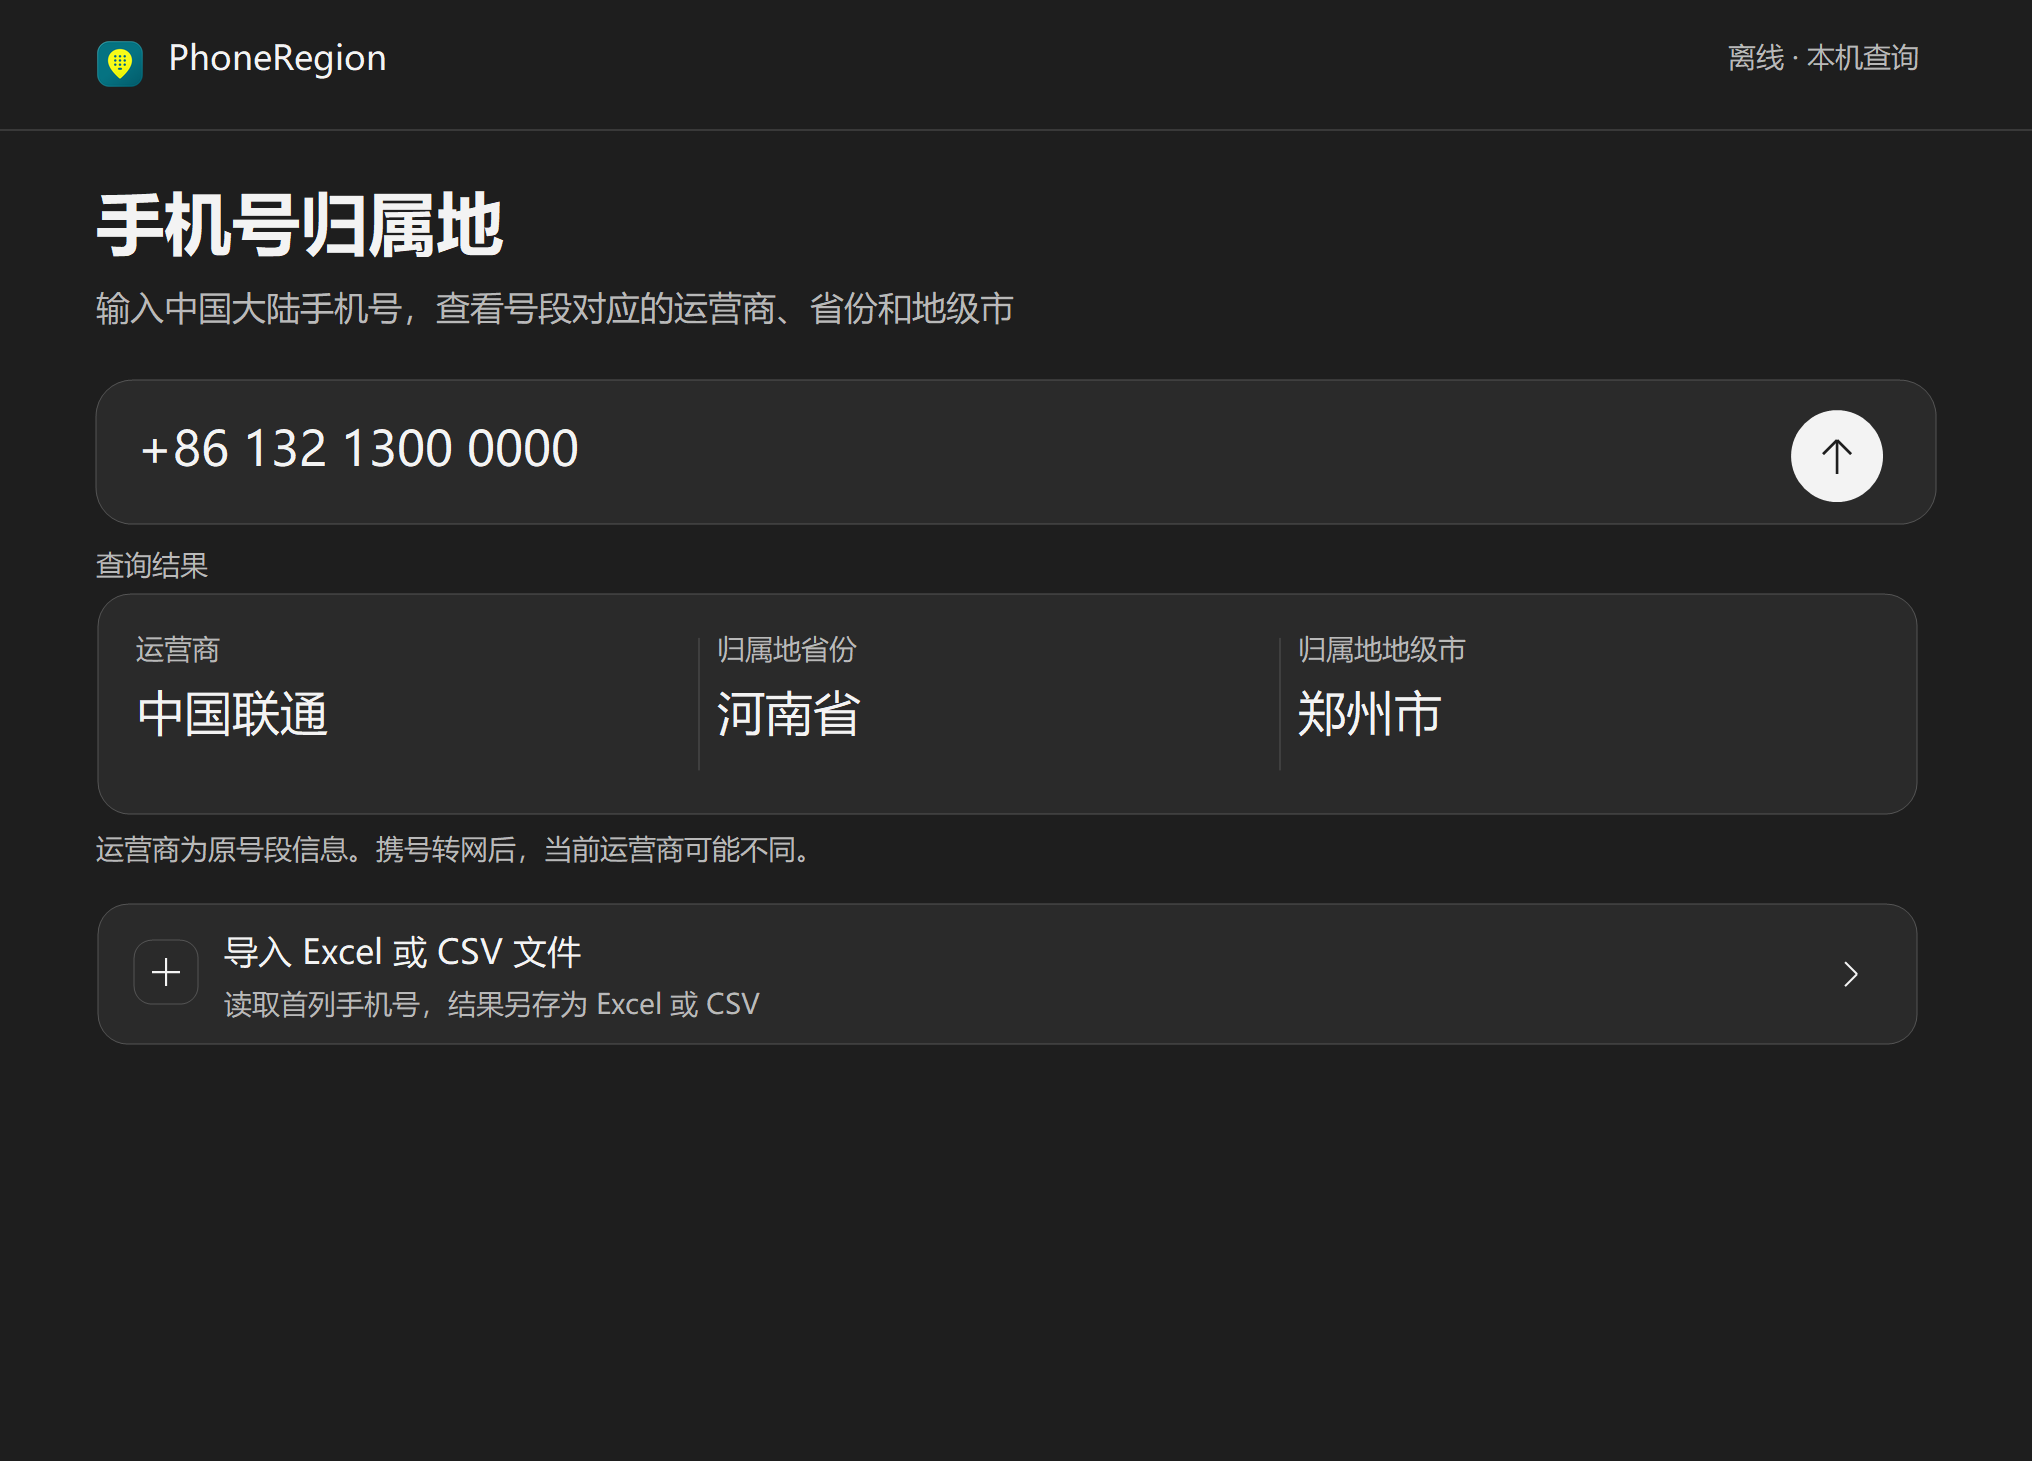
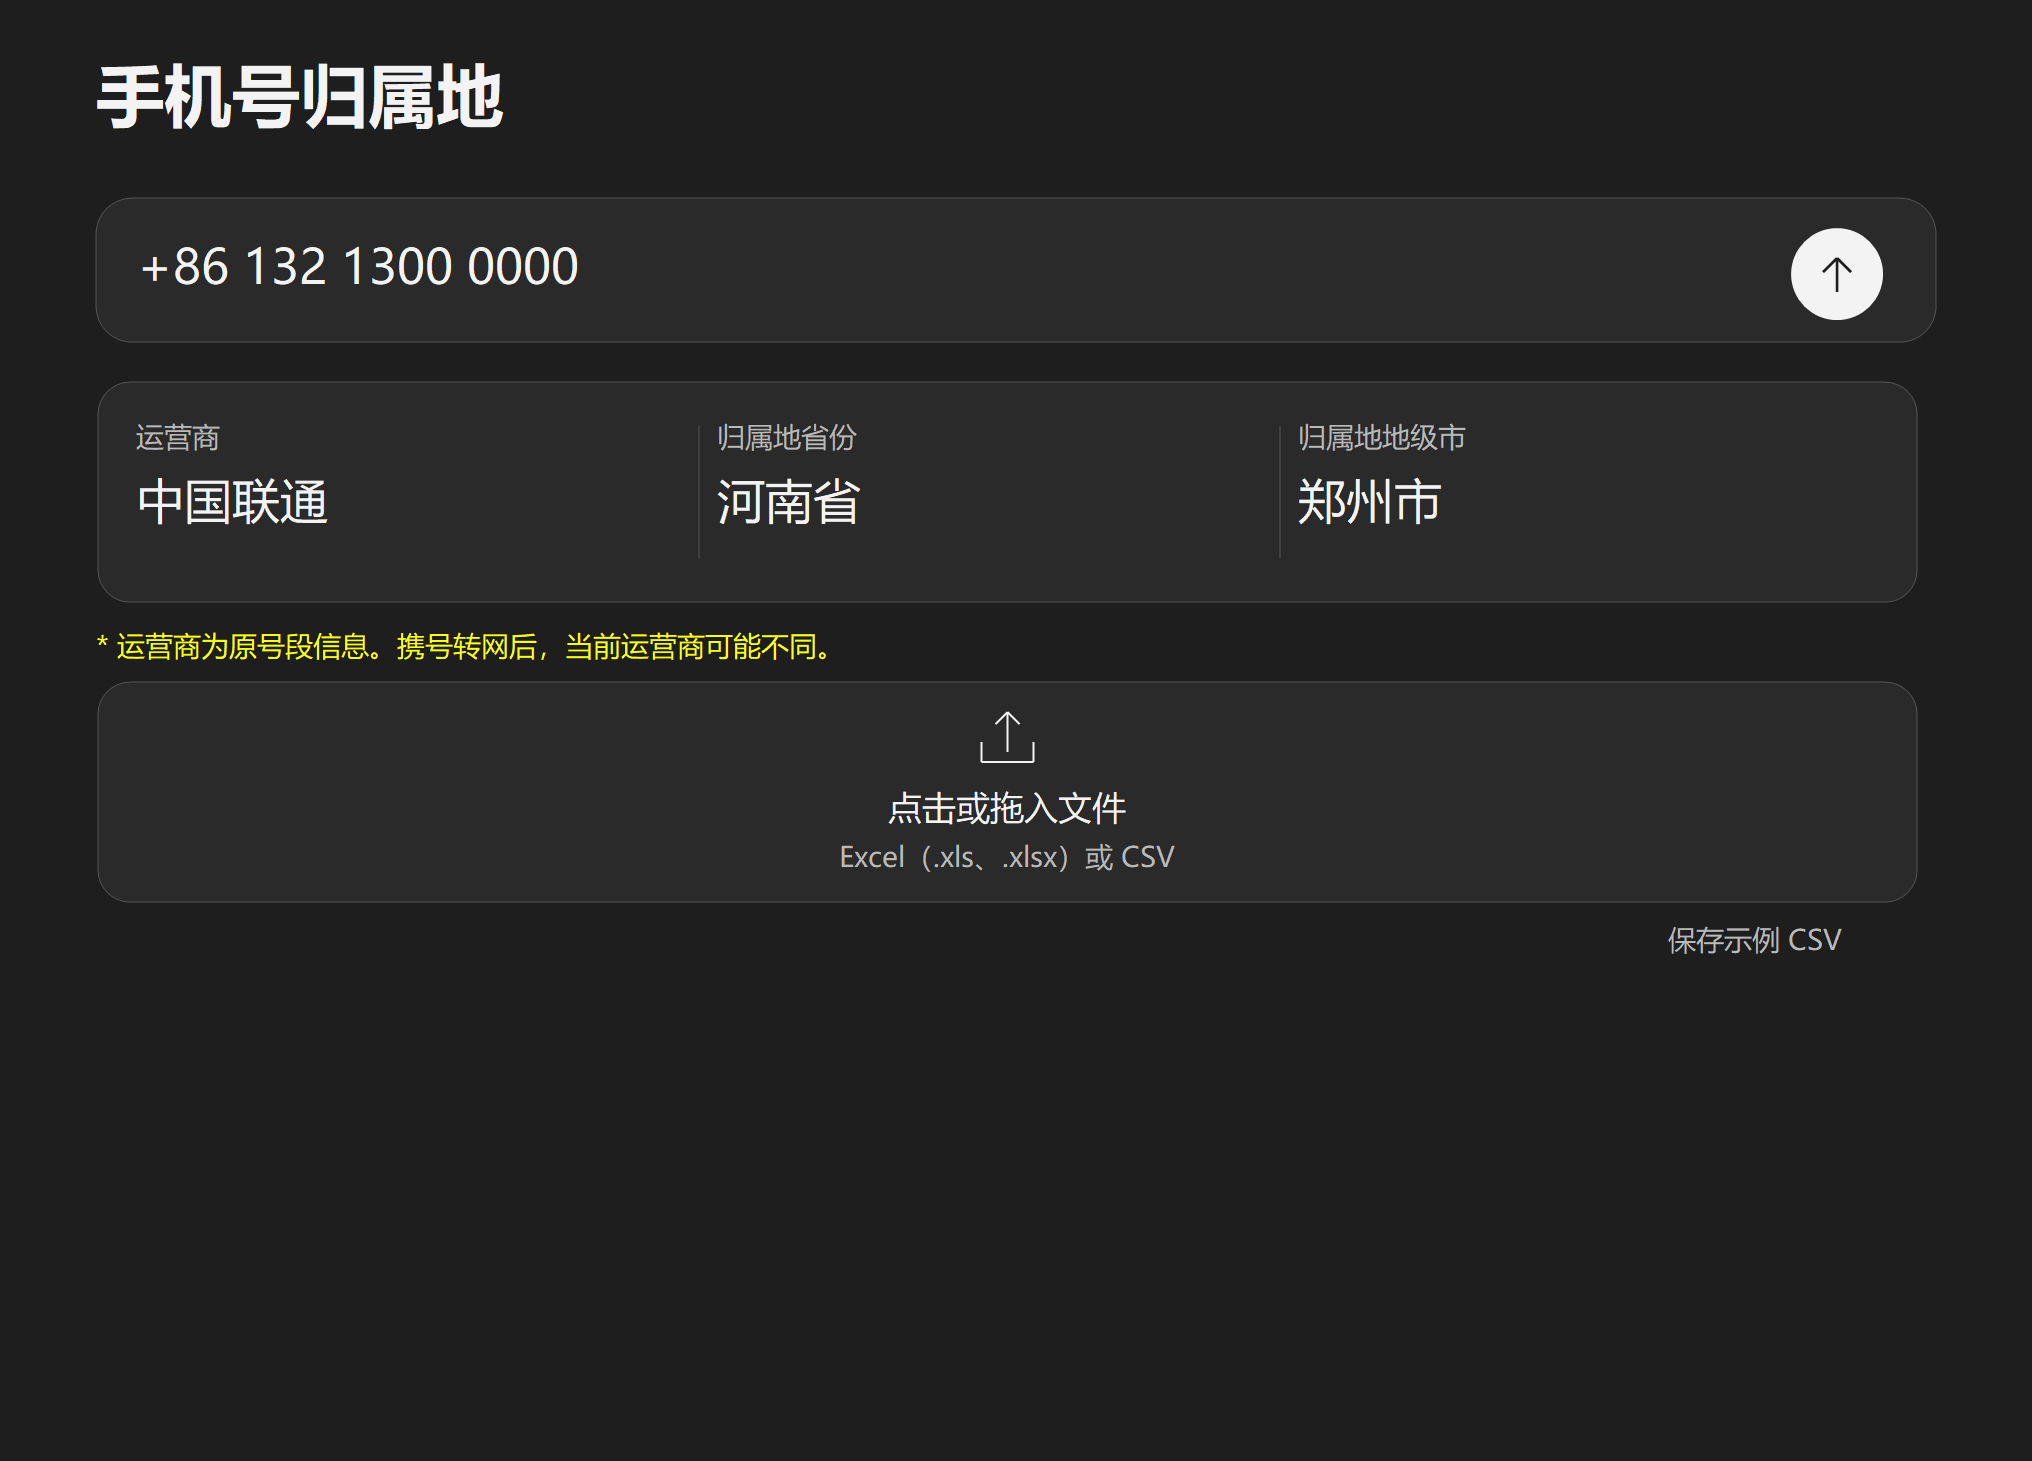
Show the released Windows lookup and export flow in both guides

diff --git a/README.en.md b/README.en.md
@@ -13,7 +13,7 @@
   <img alt="Excel and CSV batch lookup" src="https://img.shields.io/badge/Batch-Excel%20%2F%20CSV-67539b">
 </p>
 
-<p align="center">Enter a mainland Chinese mobile number to see its <strong>original carrier, province and prefecture-level area</strong><br>right in the window. Import a whole list to look up and export the results in one go, even without an internet connection.</p>
+<p align="center">Enter a mainland Chinese mobile number to see its <strong>original carrier, province and prefecture-level area</strong><br>right in the window. Import a whole list to look up the numbers, then export the results when ready, even without an internet connection.</p>
 
 <h3 align="center"><a href="https://github.com/TaylorChyi/PhoneRegion/releases/latest/download/PhoneRegion.exe">⬇ Download for Windows · PhoneRegion.exe</a></h3>
 
@@ -22,7 +22,7 @@
 <p align="center">
   <picture>
     <source media="(prefers-color-scheme: dark)" srcset="docs/window-dark.png">
-    <img src="docs/window-light.png" width="880" alt="PhoneRegion Windows window showing a number's carrier, province and prefecture-level area">
+    <img src="docs/window-light.png" width="880" alt="PhoneRegion showing the sample number registered to China Unicom in Zhengzhou, Henan Province">
   </picture>
 </p>
 
@@ -30,15 +30,17 @@
 
 <h2 align="center">Look up one number instantly</h2>
 
-<p align="center">Paste <code>+86 132 1300 0000</code> to see<br><strong>China Unicom · Henan Province · Zhengzhou City</strong> in the window.</p>
+<p align="center">The carrier, province and prefecture-level area fields are visible as soon as the window opens, each showing a dash until a result is available.<br>Paste <code>+86 132 1300 0000</code> to see <strong>China Unicom · Henan Province · Zhengzhou City</strong>.</p>
 
 <p align="center">Use <code>+86</code>, <code>0086</code> or <code>86</code> prefixes, full-width digits, spaces, brackets and hyphens within the number.</p>
 
 <h2 align="center">Look up an entire file</h2>
 
-<p align="center">Choose <strong>导入 Excel 或 CSV 文件 (Import Excel or CSV file)</strong>, select an Excel (<code>.xls</code>, <code>.xlsx</code>) or CSV file,<br>then choose where to save the results. Put the numbers in the first column and leave other columns as they are.<br>Excel does not need to be installed. The app reads column A of the first worksheet or the first CSV column. A common heading such as 手机号 (mobile number) is optional.</p>
+<p align="center"><a href="https://github.com/TaylorChyi/PhoneRegion/releases/download/v1.3.0/example.csv"><strong>Download a sample CSV</strong></a>, or choose <strong>保存示例 CSV (Save sample CSV)</strong> in the app to get the same file offline.<br>It contains three number formats. For a single-number lookup, try <code>+86 132 1300 0000</code>.</p>
 
-<p align="center">Several complete numbers separated by spaces in one cell produce separate result rows.<br>Valid numbers are normalised to 11 digits. The original order and duplicates are preserved.<br>Results are saved to a new Excel or CSV file, preserving your original.</p>
+<p align="center">Click the <strong>点击或拖入文件 (Click or drop a file)</strong> box or drag one Excel (<code>.xls</code>, <code>.xlsx</code>) or CSV file onto it. Parsing and lookup start immediately.<br>Put the numbers in the first column and leave other columns as they are. Excel does not need to be installed.<br>The app reads column A of the first worksheet or the first CSV column. A common heading such as 手机号 (mobile number) is optional.</p>
+
+<p align="center">Several complete numbers separated by spaces in one cell produce separate result rows.<br>Once lookup finishes, the <strong>导出结果 (Export results)</strong> button appears below. Click it to choose a save location and Excel or CSV format.<br>If you cancel the save dialog, you can click Export results again. The original file stays intact. Valid numbers are normalised to 11 digits, with the original order and duplicates preserved.</p>
 
 <table align="center">
   <thead><tr><th align="center">手机号<br><sub>Mobile number</sub></th><th align="center">运营商<br><sub>Carrier</sub></th><th align="center">归属地省份<br><sub>Province</sub></th><th align="center">归属地地级市<br><sub>Prefecture-level area</sub></th></tr></thead>
@@ -53,7 +55,7 @@
 
 <h2 align="center">See it in action</h2>
 
-<p align="center"><img src="docs/demo.gif" width="880" alt="Windows demo showing a formatted number lookup, then a CSV import and four-column export"></p>
+<p align="center"><img src="docs/demo.gif" width="880" alt="Windows demo showing a formatted number lookup, CSV import and the Export results button"></p>
 
 <h2 align="center">Fully offline, with numbers kept on your PC</h2>
 

diff --git a/README.md b/README.md
@@ -13,7 +13,7 @@
   <img alt="Excel 和 CSV 批量查询" src="https://img.shields.io/badge/%E6%89%B9%E9%87%8F-Excel%20%2F%20CSV-67539b">
 </p>
 
-<p align="center">在断网的 Windows 电脑上，输入一个手机号即可查看<strong>原号段运营商、省份和地市</strong>。<br>也可以导入整张号码表，一次查询并导出。</p>
+<p align="center">在断网的 Windows 电脑上，输入一个手机号即可查看<strong>原号段运营商、省份和地市</strong>。<br>也可以导入整张号码表，一次查询，再按需导出结果。</p>
 
 <h3 align="center"><a href="https://github.com/TaylorChyi/PhoneRegion/releases/latest/download/PhoneRegion.exe">⬇ 下载 Windows 版 · PhoneRegion.exe</a></h3>
 
@@ -22,7 +22,7 @@
 <p align="center">
   <picture>
     <source media="(prefers-color-scheme: dark)" srcset="docs/window-dark.png">
-    <img src="docs/window-light.png" width="880" alt="PhoneRegion Windows 窗口，可输入号码并查看运营商、省份和地市">
+    <img src="docs/window-light.png" width="880" alt="PhoneRegion 中的示例号码，查询结果为中国联通、河南省、郑州市">
   </picture>
 </p>
 
@@ -30,15 +30,17 @@
 
 <h2 align="center">一个号码，马上看到结果</h2>
 
-<p align="center">粘贴 <code>+86 132 1300 0000</code>，窗口直接显示<br><strong>中国联通 · 河南省 · 郑州市</strong>。</p>
+<p align="center">打开窗口即可看到运营商、省份和地市三个字段，查询前显示「—」。<br>粘贴 <code>+86 132 1300 0000</code> 后，直接显示<strong>中国联通 · 河南省 · 郑州市</strong>。</p>
 
 <p align="center">支持 <code>+86</code>、<code>0086</code>、<code>86</code> 国家码，也能识别全角数字、空格、括号和号码内的短横线。</p>
 
 <h2 align="center">整张表，也能一次查完</h2>
 
-<p align="center">点击<strong>「导入 Excel 或 CSV 文件」</strong>，选择 Excel（<code>.xls</code>、<code>.xlsx</code>）或 CSV 文件，再选择结果保存位置。<br>号码放在首列即可，其他列无需整理，电脑也无需安装 Excel。<br>Excel 读取第一张工作表的 A 列，CSV 读取第一列。首行可以是「手机号」等常见表头。</p>
+<p align="center"><a href="https://github.com/TaylorChyi/PhoneRegion/releases/download/v1.3.0/example.csv"><strong>下载示例 CSV</strong></a>，或在应用里点击<strong>「保存示例 CSV」</strong>，离线获取同一份示例文件。<br>示例含三种号码格式，单号输入框可试 <code>+86 132 1300 0000</code>。</p>
 
-<p align="center">同一格中用空格隔开的多个完整号码会逐个查询。<br>有效号码统一为 11 位，原顺序和重复项保留。结果另存为 Excel 或 CSV，原表不变。</p>
+<p align="center">在<strong>「点击或拖入文件」</strong>框中选择或拖入一个 Excel（<code>.xls</code>、<code>.xlsx</code>）或 CSV 文件，随后立即开始解析和查询。<br>号码放在首列即可，其他列无需整理，电脑也无需安装 Excel。<br>Excel 读取第一张工作表的 A 列，CSV 读取第一列。首行可以是「手机号」等常见表头。</p>
+
+<p align="center">同一格中用空格隔开的多个完整号码会逐个查询。<br>查询完成后，下方出现<strong>「导出结果」</strong>按钮。点击后选择保存位置和 Excel／CSV 格式，取消后也可再次导出。<br>有效号码统一为 11 位，原顺序和重复项保留。导入时不生成结果文件，原表不变。</p>
 
 <table align="center">
   <thead><tr><th align="center">手机号</th><th align="center">运营商</th><th align="center">归属地省份</th><th align="center">归属地地级市</th></tr></thead>
@@ -53,7 +55,7 @@
 
 <h2 align="center">看看实际操作</h2>
 
-<p align="center"><img src="docs/demo.gif" width="880" alt="在 Windows 上查询带国家码的号码，再导入 CSV 并导出四列结果"></p>
+<p align="center"><img src="docs/demo.gif" width="880" alt="在 Windows 上查询带国家码的号码，导入 CSV 完成查询后点击导出结果"></p>
 
 <h2 align="center">完全离线，号码留在本机</h2>
 
